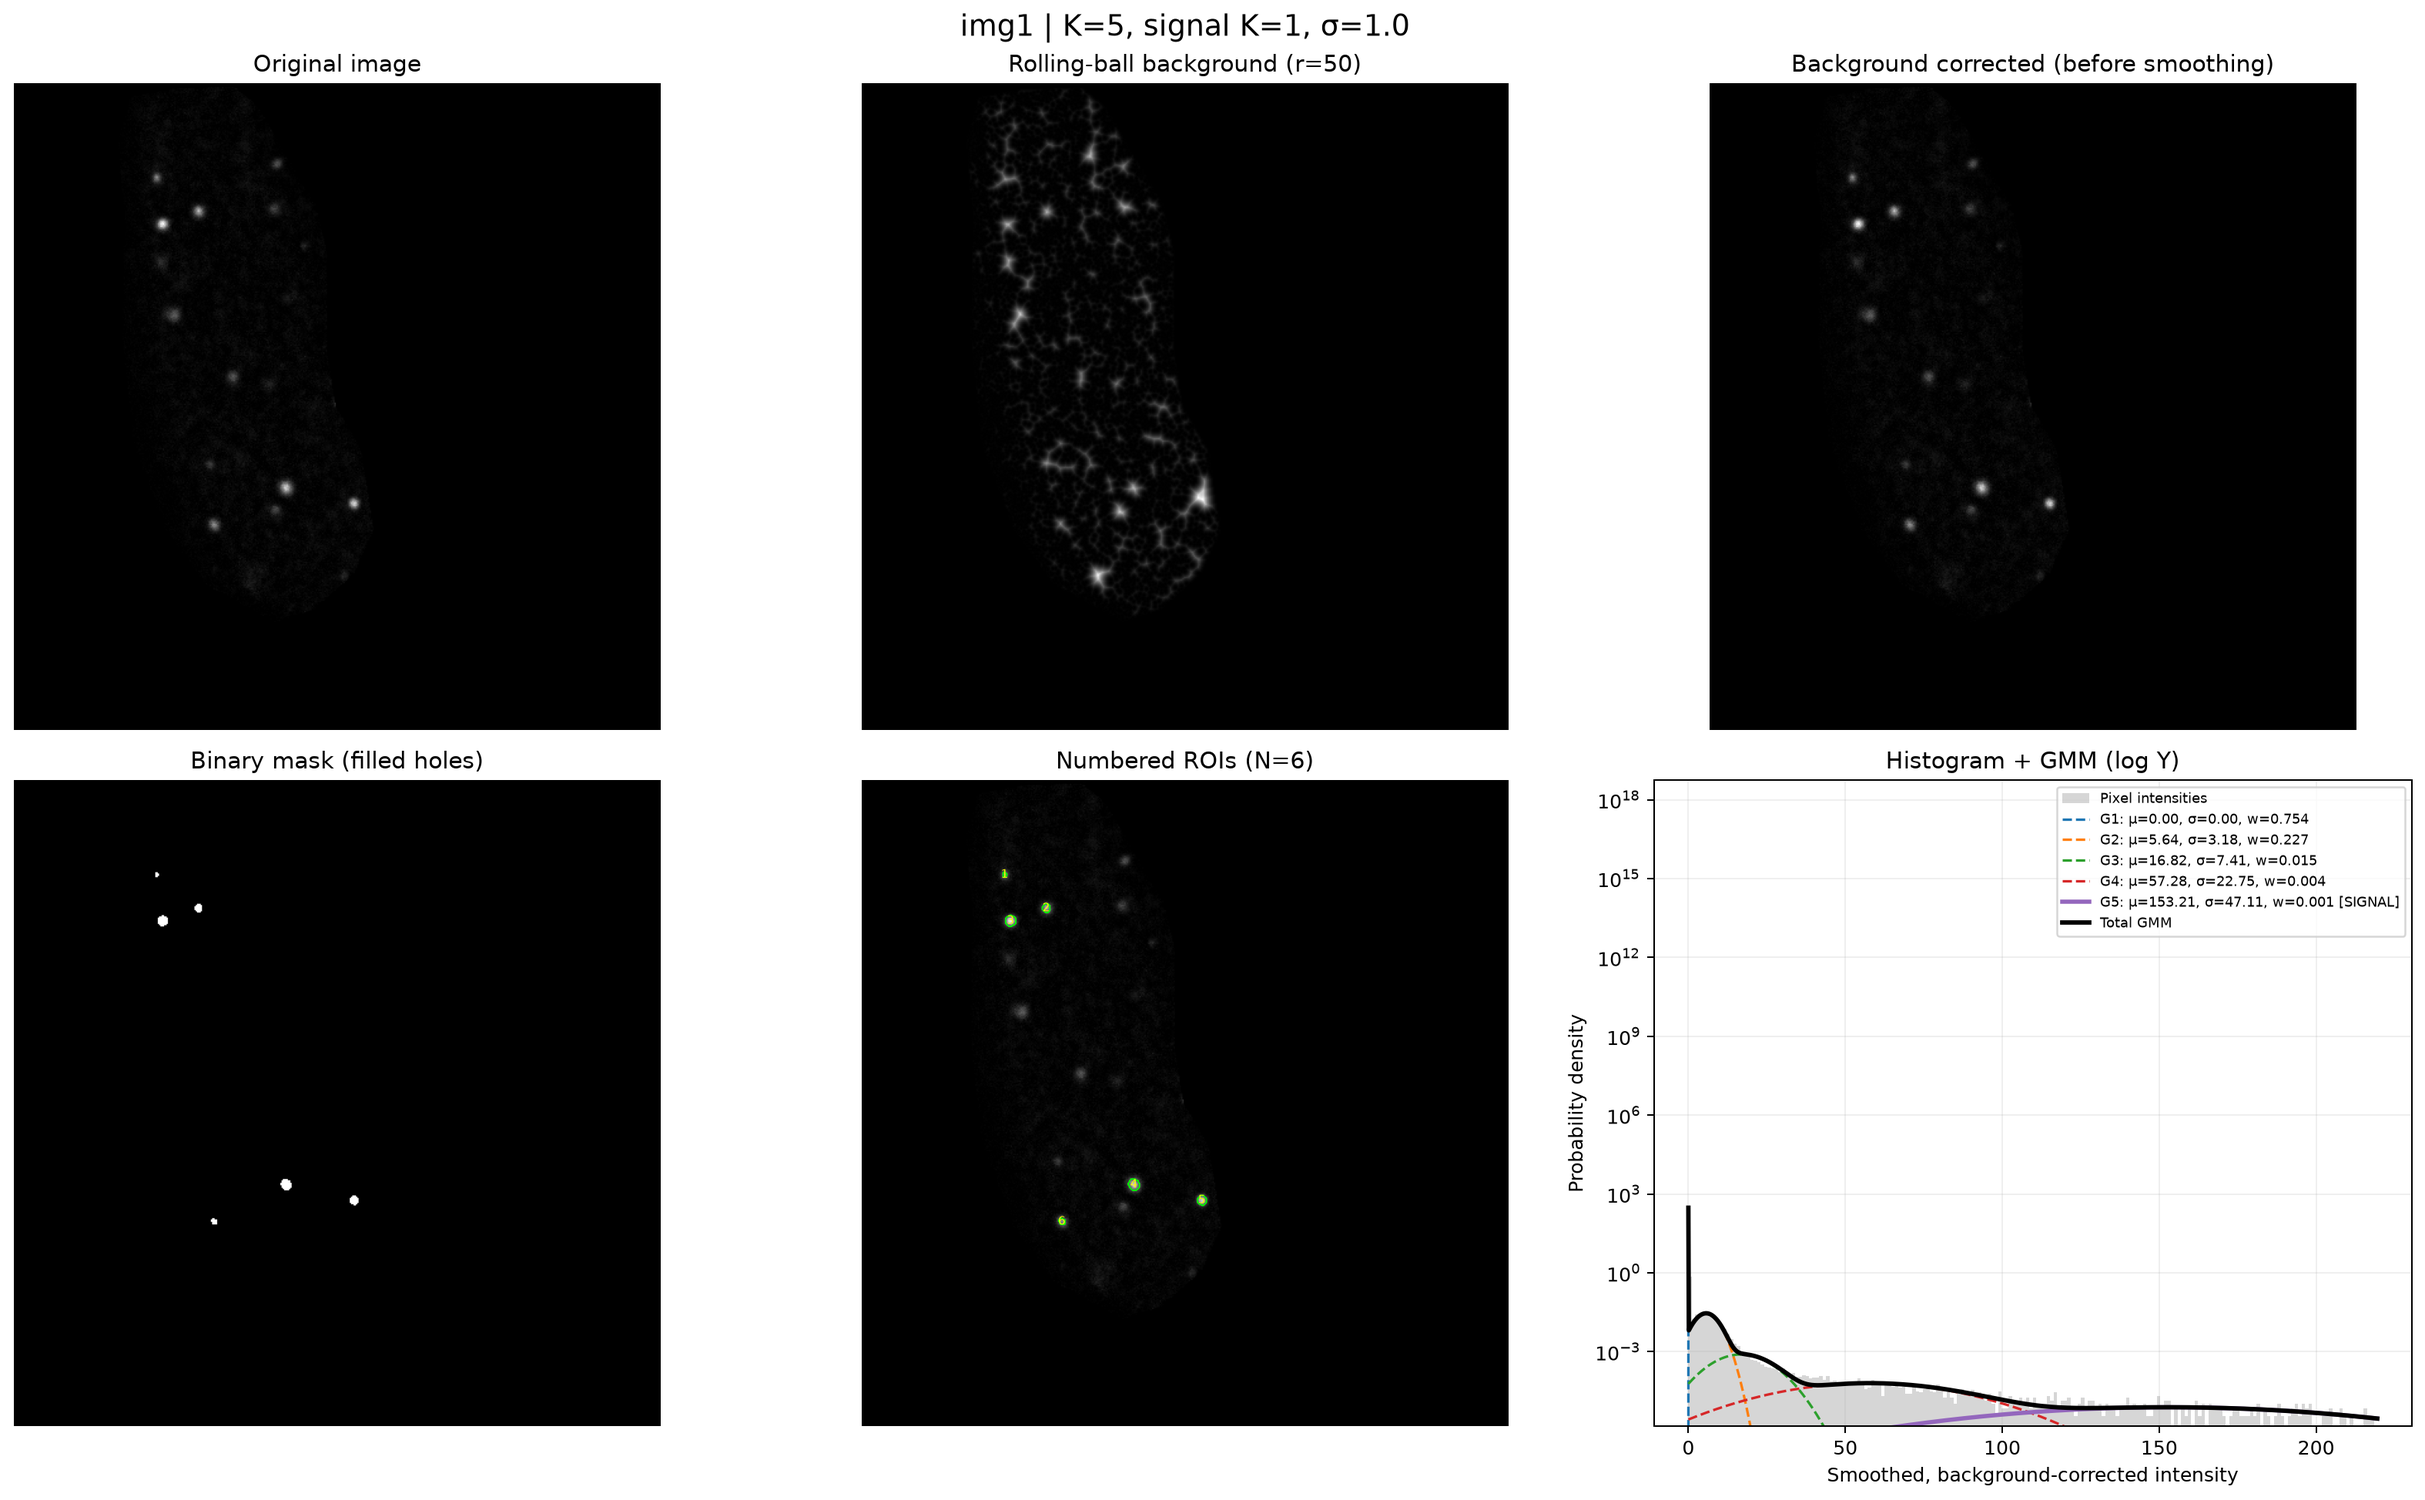
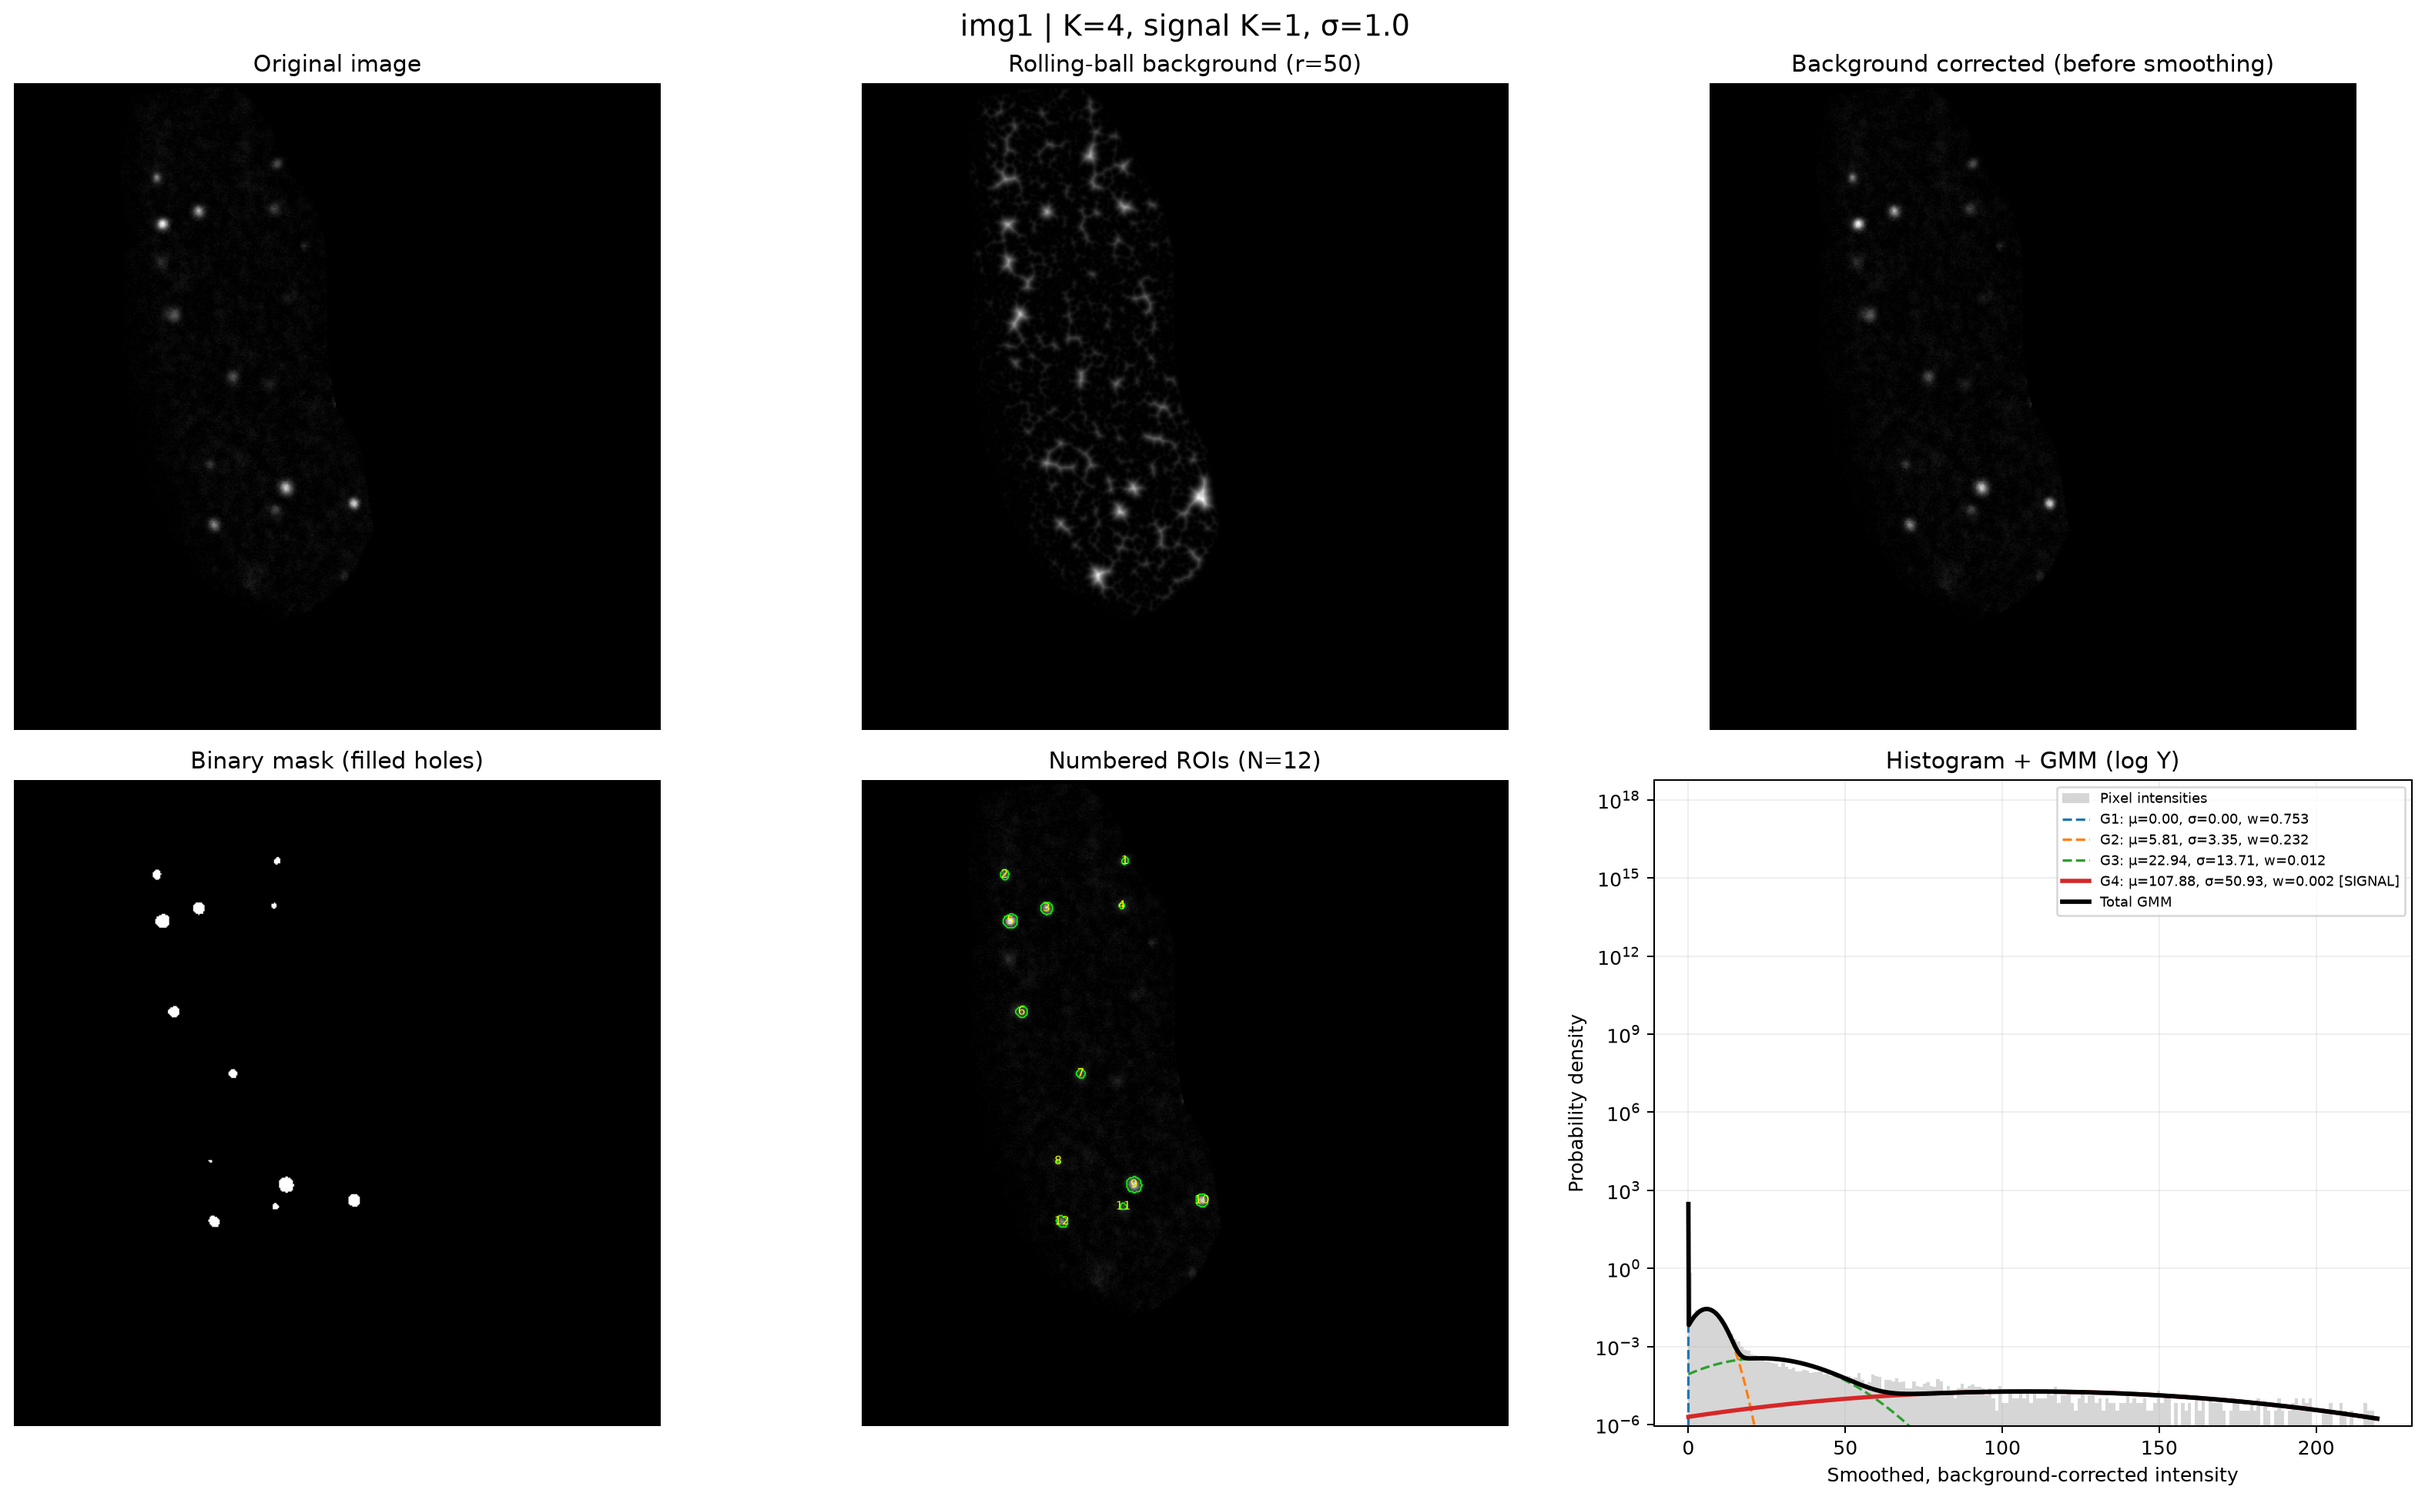
ask user about folders

Changed region(s): [[0.6847, 0.8624, 0.9648, 0.9548], [0.8403, 0.5544, 0.9959, 0.616], [0.4357, 0.4928, 0.5602, 0.5236]]

diff --git a/Foci/FOCI_GMM/new_gmm.py b/Foci/FOCI_GMM/new_gmm.py
@@ -13,8 +13,9 @@ from sklearn.mixture import GaussianMixture
 import time
 
 # ========== CONFIG ==========
-IMAGE_FOLDER = Path('images')
-OUTPUT_FOLDER = Path('gmm_results')
+#IMAGE_FOLDER = Path('images')
+#OUTPUT_FOLDER = Path('gmm_results')
+
 N_COMPONENTS = 4
 SIGNAL_COMPONENTS = 1
 PROBABILITY_THRESHOLD = 0.5
@@ -206,14 +207,45 @@ def plot_results(result, name, output):
 def main():
     validate_parameters()
     
-    OUTPUT_FOLDER.mkdir(parents=True, exist_ok=True)
-    paths = sorted(p for p in IMAGE_FOLDER.iterdir() if p.is_file() and p.suffix.lower() in ('.tif', '.tiff')) if IMAGE_FOLDER.exists() else []
+    # Ask user for directories
+    input_dir = input(
+        "Enter the input directory containing TIFF images: "
+    ).strip().strip('"').strip("'")
+    
+    output_dir = input(
+    "Enter the output directory for GMM results: "
+    ).strip().strip('"').strip("'")
+    
+    IMAGE_FOLDER = Path(input_dir).expanduser()
+    OUTPUT_FOLDER = Path(output_dir).expanduser()
+    
+    # Validate input directory
+    if not IMAGE_FOLDER.is_dir():
+        raise FileNotFoundError(
+            f"Input directory does not exist: {IMAGE_FOLDER}"
+        )
+        
+    # Create output directory if necessary
+    OUTPUT_FOLDER.mkdir(
+        parents=True,
+        exist_ok=True
+    )
+    
+    print(f"\nInput directory: {IMAGE_FOLDER.resolve()}")
+    print(f"Output directory: {OUTPUT_FOLDER.resolve()}")
+    
+    # Check images in the input directory
+    paths = sorted(p for p in IMAGE_FOLDER.iterdir() if p.is_file() and p.suffix.lower() in ('.tif', '.tiff'))
     if len(paths) == 0:
         raise ValueError(f'No TIFF images found in {IMAGE_FOLDER.resolve()}')
     
     tables, summaries = [], []
+    
+    # Import images and process them
     for path in paths:
+        
         print(f'Processing {path.name} ...')
+        
         r = process_image(path)
         plot_results(r, path.stem, OUTPUT_FOLDER)
         io.imsave(OUTPUT_FOLDER / f'{path.stem}_mask.tif', r['mask'].astype(np.uint8)*255, check_contrast=False)
